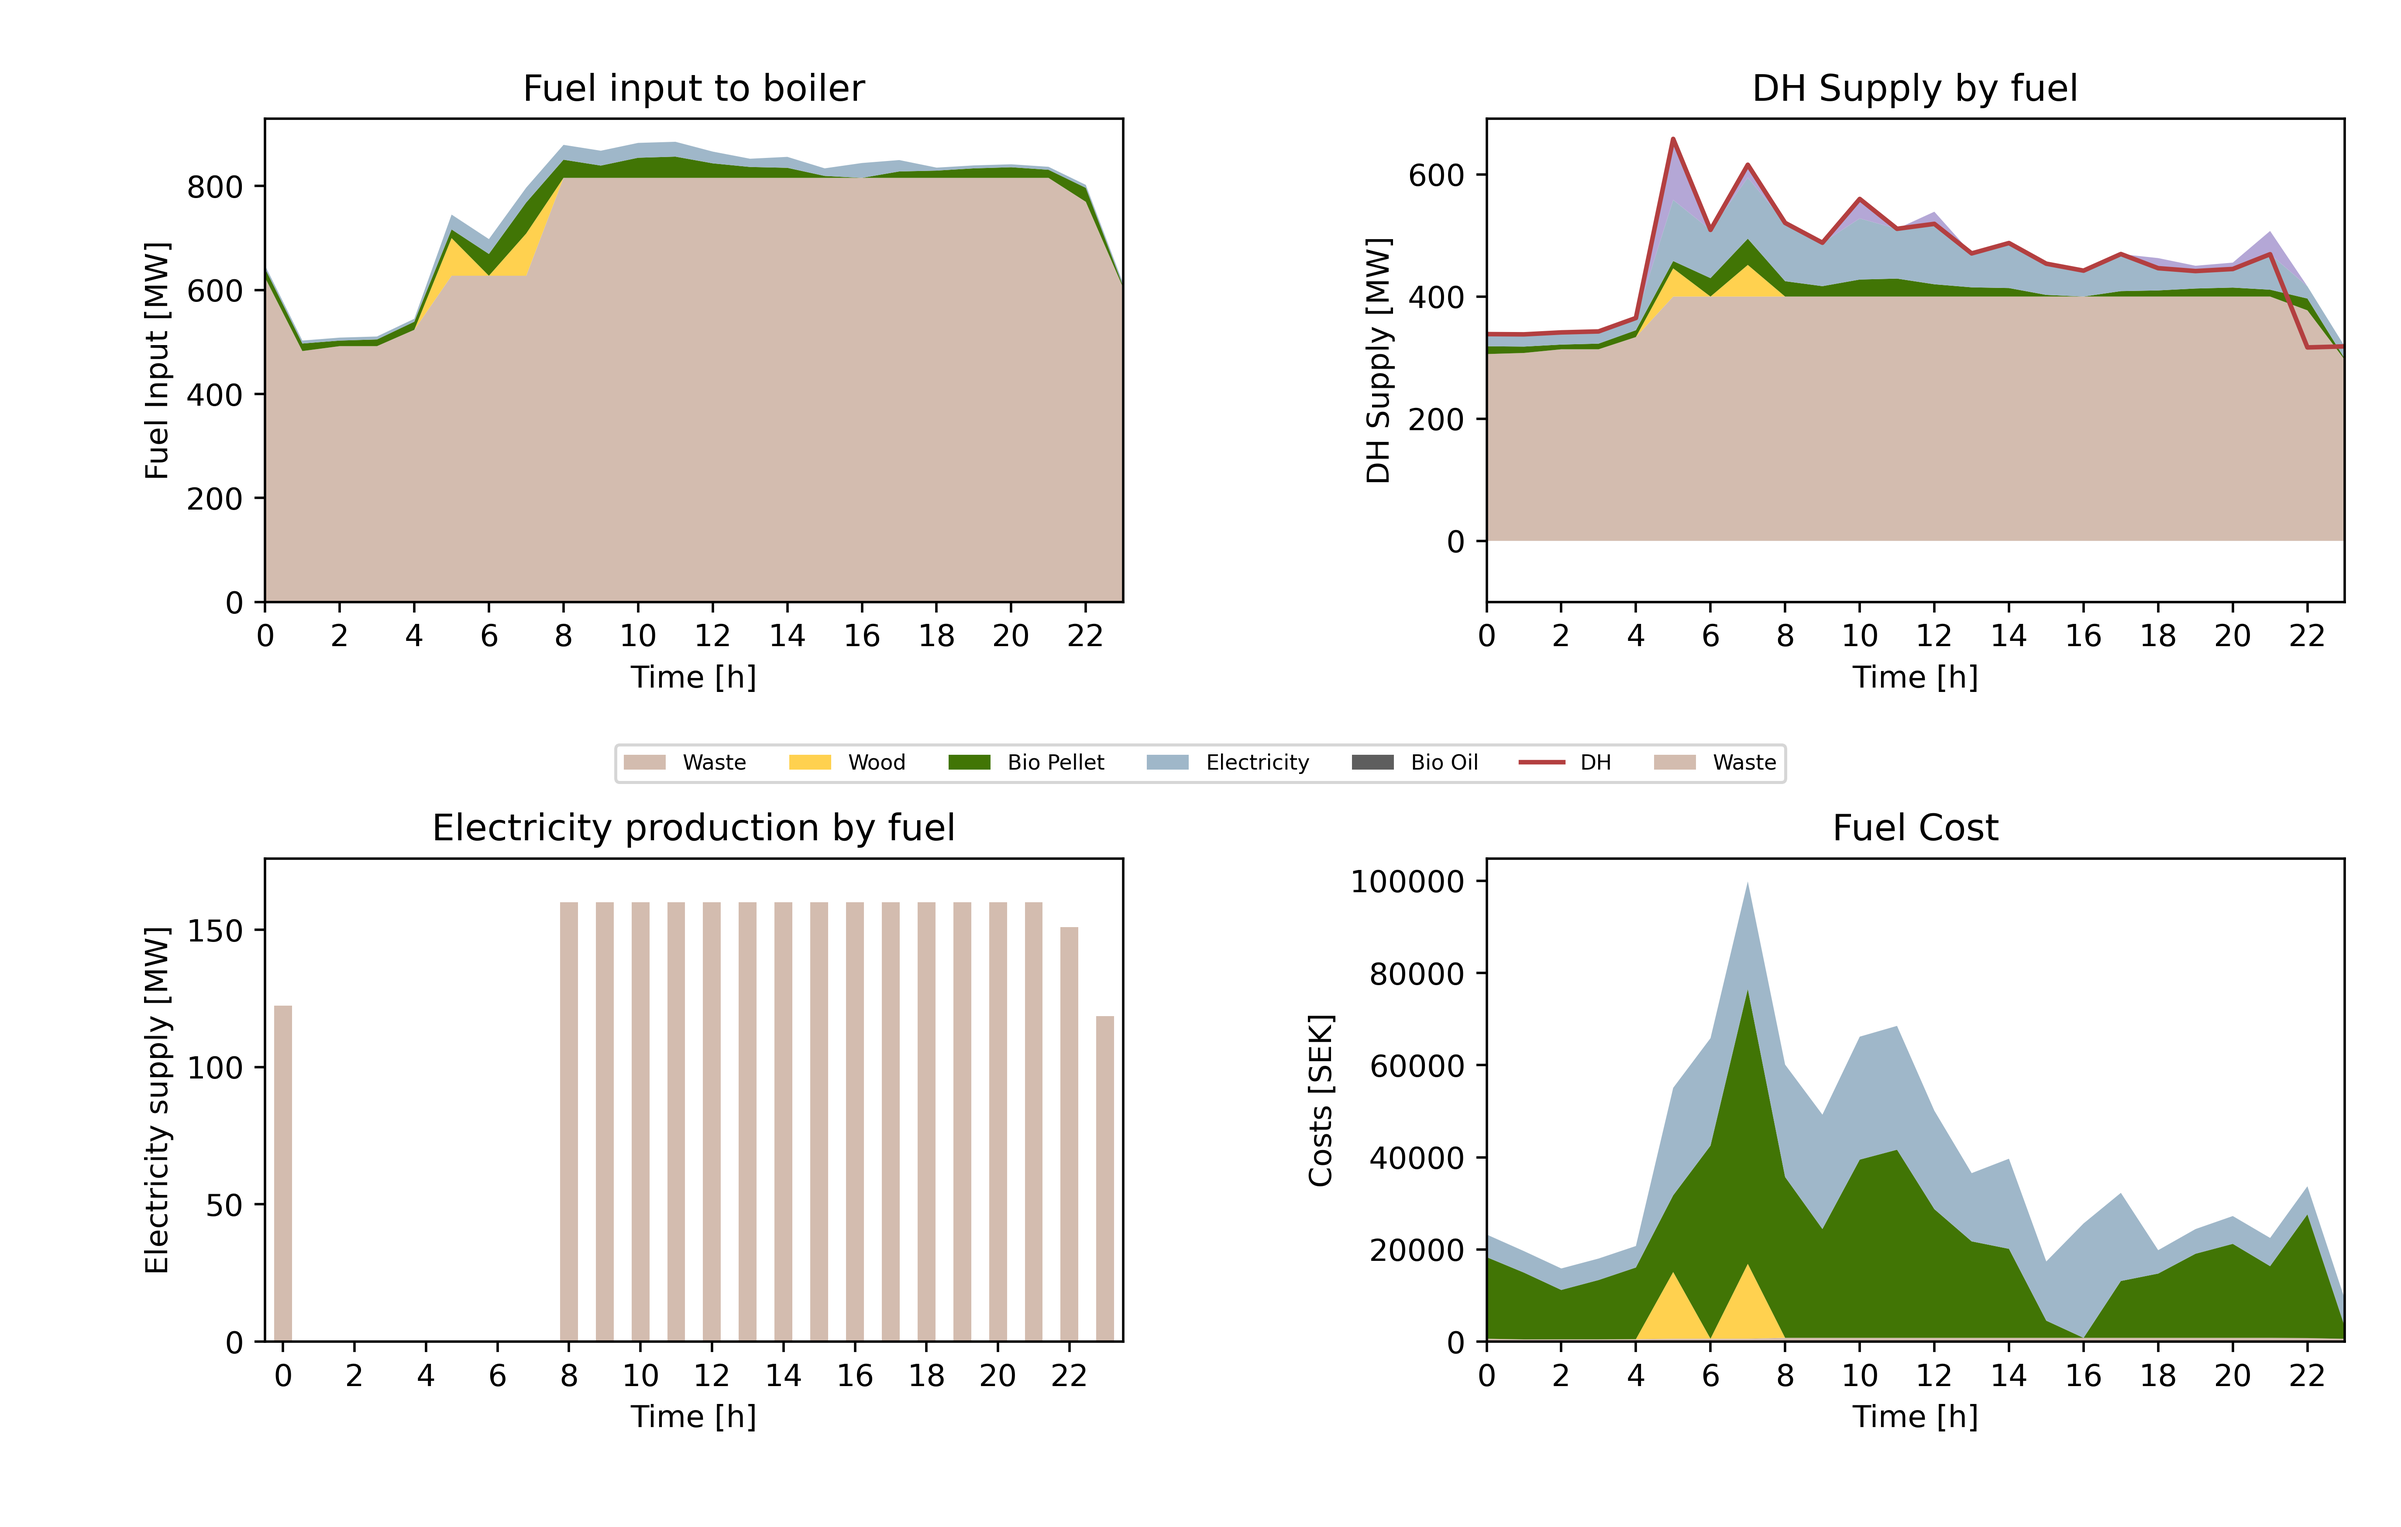
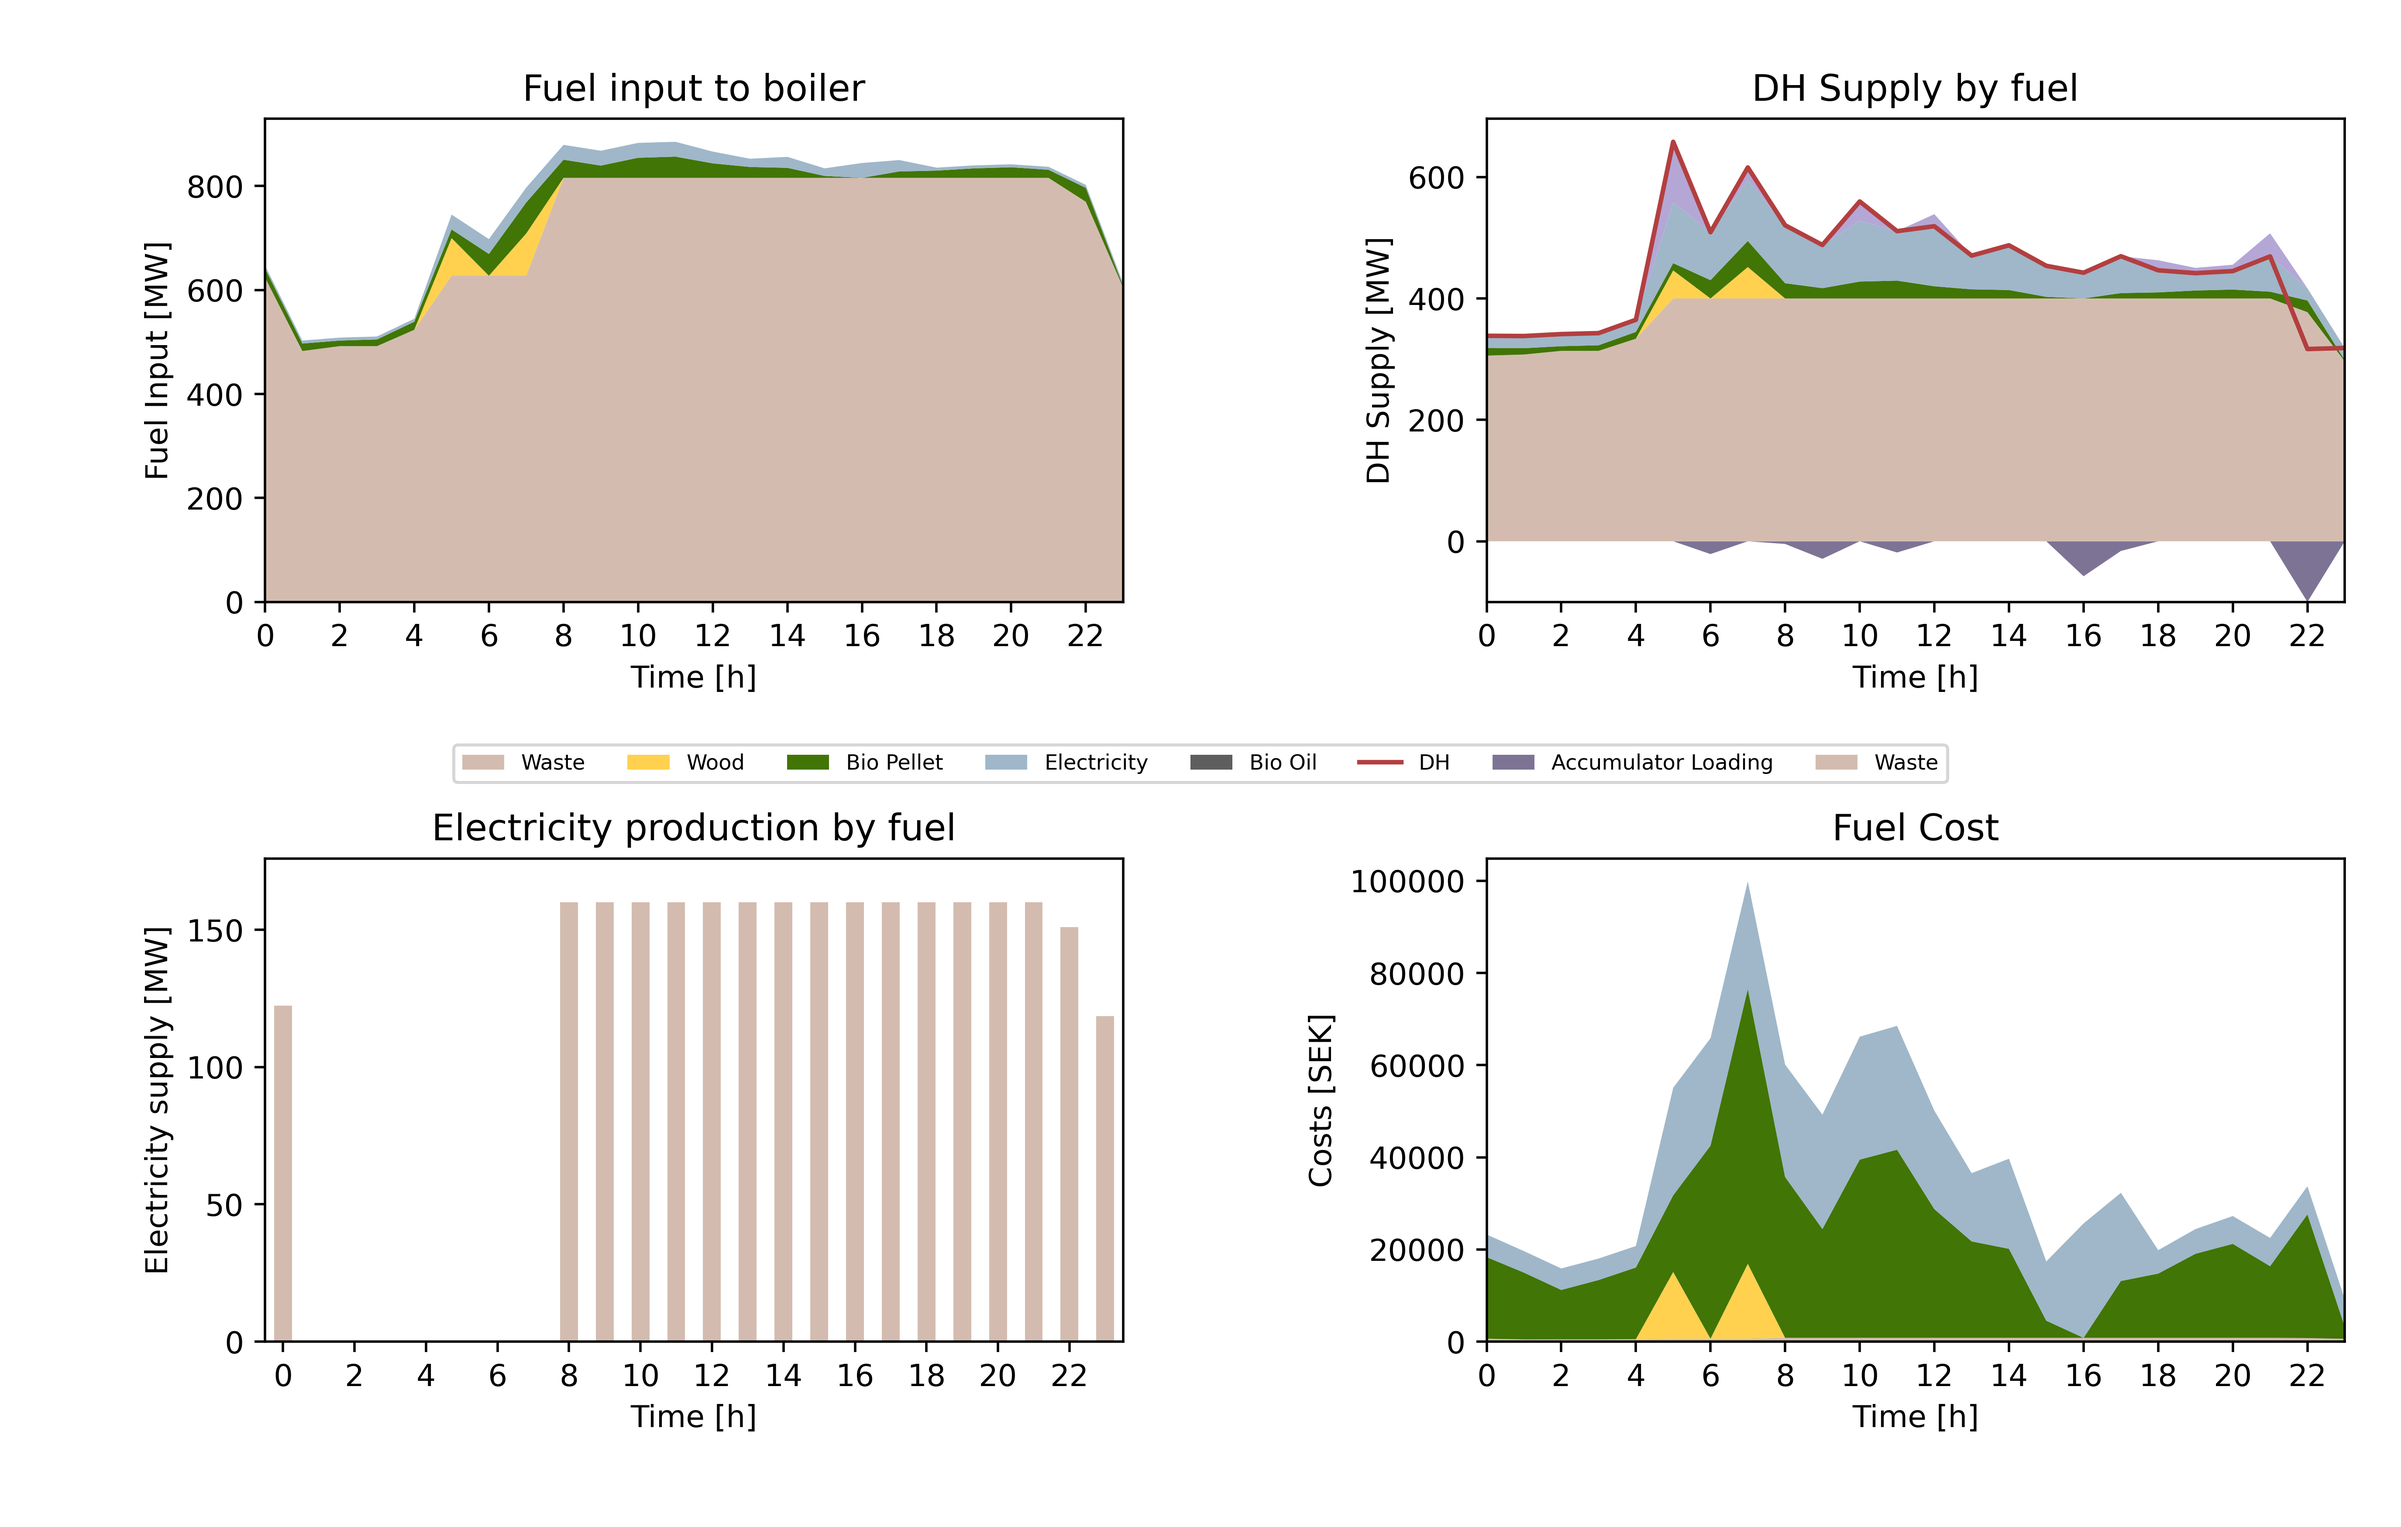
Add accumulator ue in stackplot dh_by_fuel for step 3, case 2

diff --git a/PRO2/py/plot_results_step3_case2.py b/PRO2/py/plot_results_step3_case2.py
@@ -6,7 +6,7 @@ color_map = ["#d3bcaf", "#ffd14f", "#417505", "#9fb7c9", "#5e5e5e", "#B33F40"]
 labels = ['Waste', 'Wood', 'Bio Pellet', 'Electricity', 'Bio Oil', 'DH']
 
 color_accumulator = ["#b4a7d6"]
-label_accumulator = ["Accumulator"]
+label_accumulator = ["Accumulator Unloading"]
   
 def plot_load_duration_stackplot(df, plots_folder, save):
     # Sort loads
@@ -120,6 +120,39 @@ def plot_dh_by_fuel(df, ax, title):
     ax.set_xlabel("Time [h]")
     ax.set_ylabel("DH Supply [MW]")
 
+def plot_dh_by_fuel2(df, ax, title):
+    y0 = "Accumulator Storage Change"
+    y1 = "Waste_CHP_Load_Output_A1[Dim 1][MW]"
+    y2 = "Wood_CHP_Load_Output_A1[Dim 1][MW]"
+    y3 = "Pellet_CHP_Load_Output_A2[Dim 1][MW]"
+    y4 = "HP Load Output [MW]"
+    y5 = "Bio Oil Load Output [MW]"
+    
+    ax.stackplot(df["Date (CEST)"], 
+                -df["Accumulator_Input2[Dim 1][MW]"],
+                labels=["Accumulator Loading"],
+                colors=["#7d7495"])
+    ax.stackplot(df["Date (CEST)"],
+                df[y1],
+                df[y2],
+                df[y3],
+                df[y4],
+                df[y5], 
+                df["Accumulator_Output[Dim 1][MW]"],
+                labels=labels[0:5]+label_accumulator,
+                colors=color_map[0:5]+color_accumulator)
+    ax.plot(df["Date (CEST)"],
+            df["Total Load"],
+            label=labels[5],
+            color=color_map[5])
+    ax.xaxis.set_major_locator(ticker.MultipleLocator(2))
+    ax.xaxis.set_major_formatter(ticker.ScalarFormatter())
+    ax.set_xlim([0,23])
+    ax.set_ylim([-100,None])
+    ax.set_title(title)
+    ax.set_xlabel("Time [h]")
+    ax.set_ylabel("DH Supply [MW]")
+
 def plot_electricity_production_by_fuel(df, ax, title):
     y1 = "Waste_CHP_Electricity_Output_A1[Dim 1][MW]"
     y2 = "Wood_CHP_Electricity_Output_A1[Dim 1][MW]"
@@ -190,8 +223,8 @@ def plot_subplots(df, electricity_price, plots_folder, save):
         plot_fuel_input(df_day, axes[i][0,0], title="Fuel input to boiler")
         plot_fuel_input(df_day, axes[4][j,k], title=day_string)
 
-        plot_dh_by_fuel(df_day, axes[i][0,1], title="DH Supply by fuel")
-        plot_dh_by_fuel(df_day, axes[5][j,k], title=day_string)
+        plot_dh_by_fuel2(df_day, axes[i][0,1], title="DH Supply by fuel")
+        plot_dh_by_fuel2(df_day, axes[5][j,k], title=day_string)
 
         plot_electricity_production_by_fuel(df_day, axes[i][1,0], title="Electricity production by fuel")
         plot_electricity_production_by_fuel(df_day, axes[6][j,k], title=day_string)
@@ -201,7 +234,7 @@ def plot_subplots(df, electricity_price, plots_folder, save):
 
         lines_labels = [ax.get_legend_handles_labels() for ax in figs[i].axes]
         lines, labels = [sum(lol, []) for lol in zip(*lines_labels)]
-        figs[i].legend(lines[0:7], labels[0:7], ncol=7, loc='center')
+        figs[i].legend(lines[0:8], labels[0:8], ncol=8, loc='center')
         figs[i].tight_layout()
         if save:
             figs[i].set_size_inches((11,7), forward=False)
@@ -214,7 +247,7 @@ def plot_subplots(df, electricity_price, plots_folder, save):
         lines_labels = [ax.get_legend_handles_labels() for ax in figs[i+4].axes]
         lines, labels = [sum(lol, []) for lol in zip(*lines_labels)]
         if i == 1:
-            figs[i+4].legend(lines[0:7], labels[0:7], ncol=7, loc='center')
+            figs[i+4].legend(lines[0:8], labels[0:8], ncol=8, loc='center')
         elif i == 2:
             figs[i+4].legend(lines[0:3], labels[0:3], ncol=3, loc='center')
         else:

diff --git a/PRO2/py/extend_result_csv.py b/PRO2/py/extend_result_csv.py
@@ -42,8 +42,8 @@ def extend_step3_case2(file, save=True):
     df["Bio Oil Fuel Input [MW]"] = df["HOB_Fuel_Input_A1[Dim 1][MW]"] + df["HOB_Fuel_Input_A2[Dim 1][MW]"]
     df["HP Load Output [MW]"] = df["HP_Load_Output_A1[Dim 1][MW]"] + df["HP_Load_Output_A2[Dim 1][MW]"]
     df["Bio Oil Load Output [MW]"] = df["HOB_Output_Backup[Dim 1][MW]"] + df["HOB_Load_Output_A2[Dim 1][MW]"]
-    # df["Accumulator Storage Change"] = df["Accumulator_Input2[Dim 1][MW]"] - df["Accumulator_Output[Dim 1][MW]"]
-    df["Accumulator Storage Change"] = - df["Accumulator_Output[Dim 1][MW]"]
+    df["Accumulator Storage Change"] = df["Accumulator_Input2[Dim 1][MW]"] - df["Accumulator_Output[Dim 1][MW]"]
+    # df["Accumulator Storage Change"] = - df["Accumulator_Output[Dim 1][MW]"]
     # assert df.shape[1] == 43
     # assert df.shape[0] == 8760
     print(df.shape)
